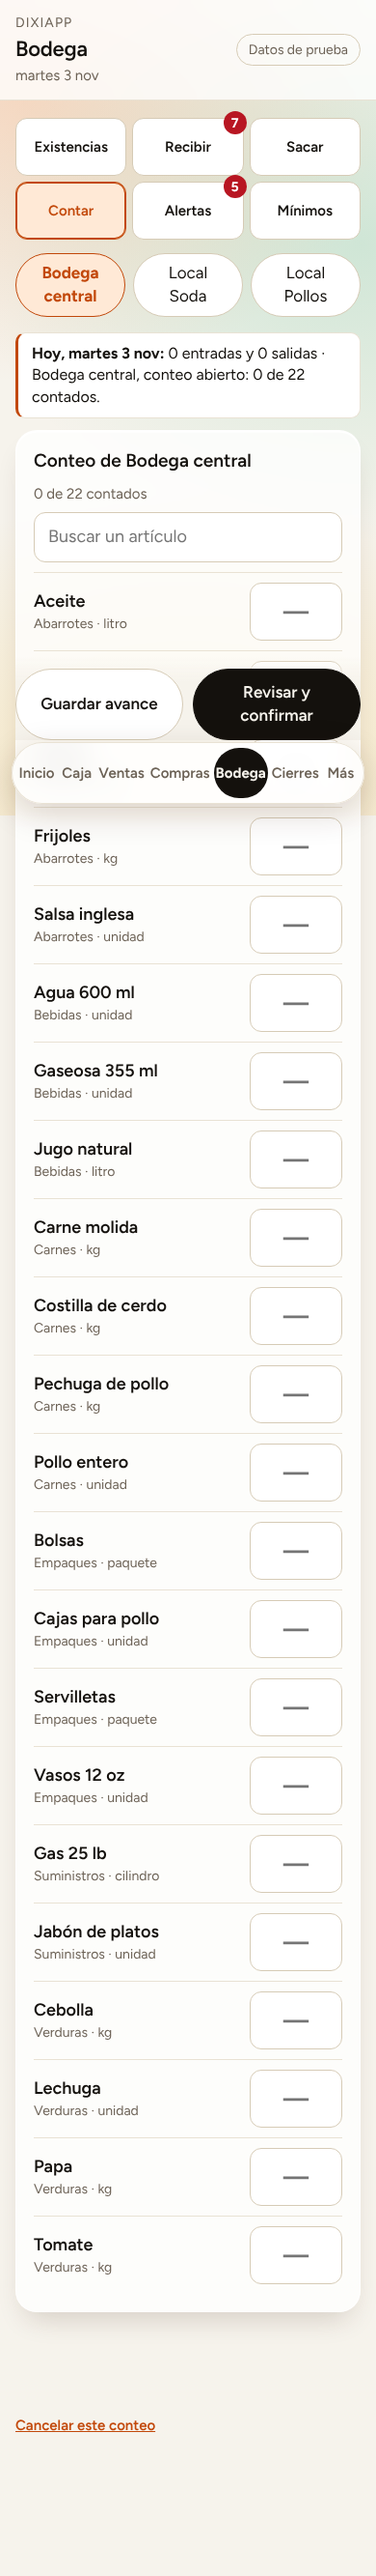
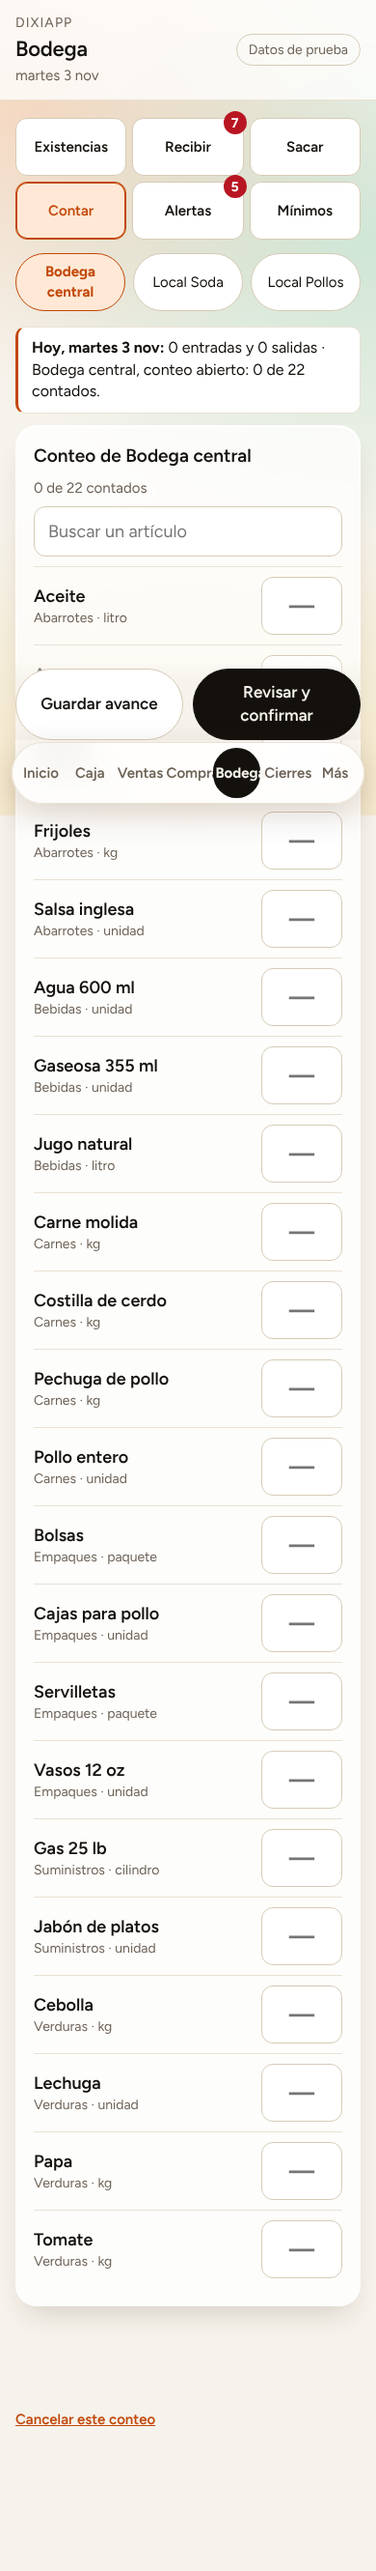
Revisión de textos cortados: tablas, pestañas, fichas y cantidades se ajustan al celular (v25)
Claude-Session: https://claude.ai/code/session_011LYsWAhbE7D1p4ByhmTELK

diff --git a/scripts/revision-cortes.js b/scripts/revision-cortes.js
@@ -1,0 +1,53 @@
+// Revision de textos cortados o fuera de pantalla: en cada pestana, con todos los detalles abiertos y en 4 anchos de celular,
+// busca elementos cuyo borde derecho pasa de la pantalla o cuyo contenido es mas ancho que su caja (texto cortado por overflow).
+// Requiere el servidor local (npm run servir). Modo de prueba forzado.
+import { createRequire } from 'node:module';
+const { chromium } = createRequire(import.meta.url)('playwright');
+const URL = process.env.URL_APP || 'http://127.0.0.1:8100/';
+const ANCHOS = [320, 360, 390, 430, 768];
+const nav = await chromium.launch(); let total = 0; const vistos = new Set();
+const medir = async (p, w, etq) => {
+  const r = await p.evaluate((w) => {
+    const sel = (e) => (e.tagName.toLowerCase() + (e.className && typeof e.className === 'string' ? '.' + e.className.trim().split(/\s+/).slice(0, 2).join('.') : '') + (e.dataset.accion ? `[${e.dataset.accion}]` : ''));
+    const out = [];
+    for (const e of document.querySelectorAll('main *, .cabecera *, .pestanas *')) {
+      const cs = getComputedStyle(e); if (e.closest('.ini-k') && e.matches('.ini-k')) continue; if (cs.display === 'none' || cs.visibility === 'hidden') continue;
+      const b = e.getBoundingClientRect(); if (!b.width || !b.height) continue;
+      if (e.closest('[hidden], .tabla-scroll, .tabla, [data-scroll-x]') && cs.position !== 'fixed') { const sc = e.closest('.tabla-scroll, [data-scroll-x], .tabla-desliza'); if (sc) continue; }
+      const txt = (e.textContent || '').trim().slice(0, 40);
+      if (b.right > w + 1 && !e.closest('svg')) out.push(`fuera de pantalla (${Math.round(b.right)} > ${w}): ${sel(e)} "${txt}"`);
+      else if (e.scrollWidth > e.clientWidth + 2 && ['hidden', 'clip'].includes(cs.overflowX) && e.clientWidth > 0) out.push(`contenido cortado (${e.scrollWidth} > ${e.clientWidth}): ${sel(e)} "${txt}"`);
+      else if (cs.textOverflow === 'ellipsis' && e.scrollWidth > e.clientWidth + 1) out.push(`texto con «...»: ${sel(e)} "${txt}"`);
+    }
+    if (document.documentElement.scrollWidth > w + 1) out.push(`la pagina se desplaza horizontalmente (${document.documentElement.scrollWidth} > ${w})`);
+    return [...new Set(out)].slice(0, 12);
+  }, w);
+  for (const l of r) { const k = `${w}|${etq}|${l}`; if (!vistos.has(k)) { vistos.add(k); total++; console.log(`[${w}px] ${etq}: ${l}`); } }
+};
+const abrirTodo = async (p) => { // abre cualquier detalle plegable visible
+  for (const s of ['[data-accion="turno-ver"][aria-expanded="false"]', '[data-accion="venta-ver"]', '[data-accion="factura-ver"]', '[data-accion="b-todos"]']) {
+    const n = await p.locator(s).count(); for (let i = 0; i < Math.min(n, 4); i++) { await p.locator(s).nth(i).click({ timeout: 1500 }).catch(() => {}); await p.waitForTimeout(80); }
+  }
+};
+for (const w of ANCHOS) {
+  const ctx = await nav.newContext({ viewport: { width: w, height: 800 }, locale: 'es-CR', serviceWorkers: 'block', hasTouch: true });
+  const p = await ctx.newPage(); const errs = []; p.on('pageerror', (e) => errs.push(e.message));
+  await p.route('**/src/datos/config.js', (r) => r.fulfill({ contentType: 'text/javascript', body: "export const CONFIG = { modo: 'prueba' };" }));
+  await p.goto(URL); await p.waitForSelector('.pestanas, .tecla', { timeout: 15000 });
+  if (await p.locator('.tecla').count()) { for (const c of '1234') await p.click(`.tecla[data-valor="${c}"]`); await p.click('text=Entrar'); }
+  await p.waitForSelector('.pestanas');
+  for (const t of ['Inicio', 'Caja', 'Ventas', 'Compras', 'Cierres', 'Más']) {
+    await p.click(`.pestana:has-text("${t}")`).catch(() => {}); await p.waitForTimeout(300); await medir(p, w, t); await abrirTodo(p); await p.waitForTimeout(150); await medir(p, w, `${t} (detalles abiertos)`);
+    for (const f of await p.locator('.chip, [data-accion="por"]').all().then((a) => a.slice(0, 4))) { await f.click({ timeout: 1000 }).catch(() => {}); await p.waitForTimeout(150); await medir(p, w, `${t} (filtro)`); }
+  }
+  await p.click('.pestana:has-text("Bodega")'); await p.waitForSelector('.secciones-bodega');
+  for (const k of ['existencias', 'recibir', 'sacar', 'contar', 'alertas', 'minimos']) {
+    await p.click(`[data-accion="b-sec"][data-valor="${k}"]`).catch(() => {}); await p.waitForTimeout(200);
+    if (k === 'contar') { await p.click('text=Empezar conteo').catch(() => {}); await p.waitForTimeout(250); }
+    if (k === 'recibir') { await p.click('[data-accion="b-sub"][data-valor="notas"]').catch(() => {}); await p.waitForTimeout(150); await medir(p, w, 'Bodega recibir notas'); await p.click('[data-accion="b-sub"][data-valor="pendientes"]').catch(() => {}); }
+    await medir(p, w, `Bodega ${k}`);
+  }
+  if (errs.length) console.log(`[${w}px] ERRORES DE PAGINA: ${errs.slice(0, 3).join(' | ')}`);
+  await ctx.close();
+}
+await nav.close(); console.log(total ? `\n${total} observaciones` : '\nSin textos cortados ni fuera de pantalla en ningun ancho.');

diff --git a/web/estilos.css b/web/estilos.css
@@ -388,3 +388,27 @@ body { background:
 .tn .tn-detalle, .tn-lista > li { min-width: 0; max-width: 100%; }
 
 .tn-detalle .fila.texto b.num { white-space: normal; font-variant-numeric: normal; }
+
+/* Revision de cortes (3 nov 2026): nada se corta ni obliga a deslizar en celular */
+@media (max-width: 600px) {
+  .tabla-ancha { min-width: 0; font-size: 14px; }
+  .tabla-ancha th, .tabla-ancha td { padding-left: 8px; font-size: 14px; }
+  .tabla-ancha th:first-child, .tabla-ancha td:first-child { padding-left: 0; }
+  .pestana { font-size: 15px; padding: 0 2px; min-width: 0; }
+}
+@media (max-width: 340px) {
+  .pestana { font-size: 13px; }
+  .tabla-ancha, .tabla-ancha th, .tabla-ancha td { font-size: 12.5px; }
+  .tabla-ancha th, .tabla-ancha td { padding-left: 5px; }
+  .stepper { gap: 6px; flex-wrap: wrap; }
+  .stepper .btn { min-width: 52px; }
+  .stepper input { width: 80px; }
+}
+@media (max-width: 900px) { .ini-kpis { grid-template-columns: 1fr; } .ini-k { min-height: 0; } }
+@media (max-width: 420px) {
+  .barra-filtros .fichas { gap: 6px; flex-wrap: nowrap; }
+  .barra-filtros .ficha, .selector-negocio .ficha { min-width: 0; padding: 8px 6px; font-size: 15px; }
+  .stepper { gap: 6px; } .stepper .btn { min-width: 54px; } .stepper input { width: 84px; }
+}
+.segmento { grid-template-columns: repeat(3, minmax(0, 1fr)); } .segmento.cuatro { grid-template-columns: repeat(4, minmax(0, 1fr)); } .segmento .ficha { min-width: 0; }
+@media (max-width: 420px) { .segmento .ficha { padding: 8px 4px; font-size: 15px; } }

diff --git a/web/sw.js b/web/sw.js
@@ -1,6 +1,6 @@
 // Service worker de Dixiapp: cachea SOLO la interfaz (archivos estaticos de esta lista).
 // Nunca guarda datos de caja: cualquier otra peticion (por ejemplo Supabase) va directo a la red.
-const VERSION = 'dixiapp-interfaz-v24';
+const VERSION = 'dixiapp-interfaz-v25';
 const INTERFAZ = [
   './', './index.html', './estilos.css', './manifest.webmanifest',
   './src/app.js', './src/vistas.js', './src/vistas-compras.js', './src/vistas-ventas.js', './src/vistas-cierres.js', './src/vistas-inicio.js', './src/mensajes.js', './src/vistas-bodega.js', './src/bodega.js', './src/ui.js', './vendor/supabase-js.js',
